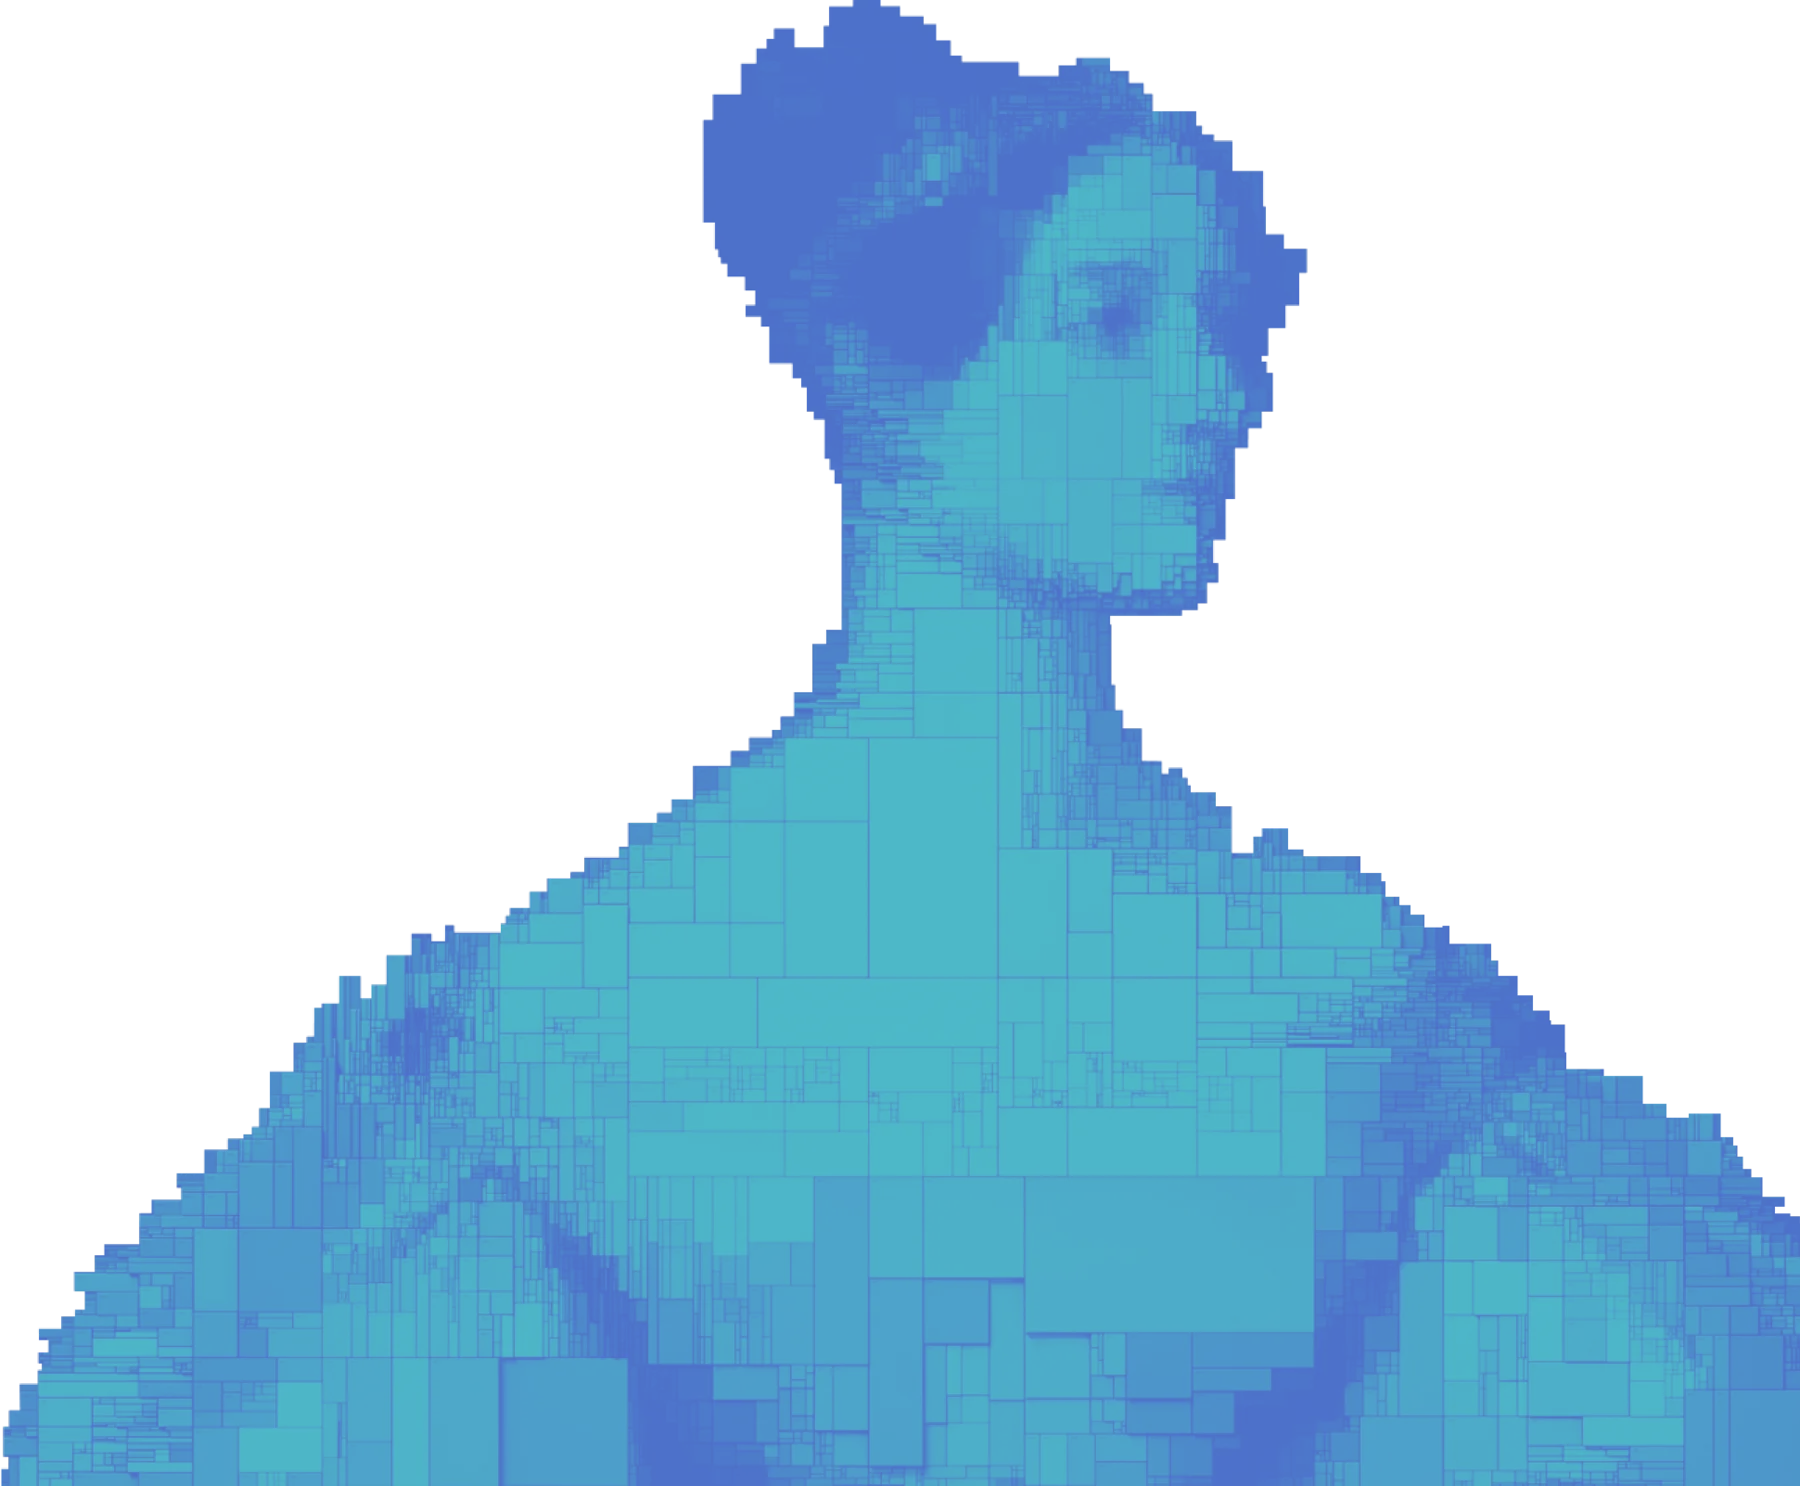
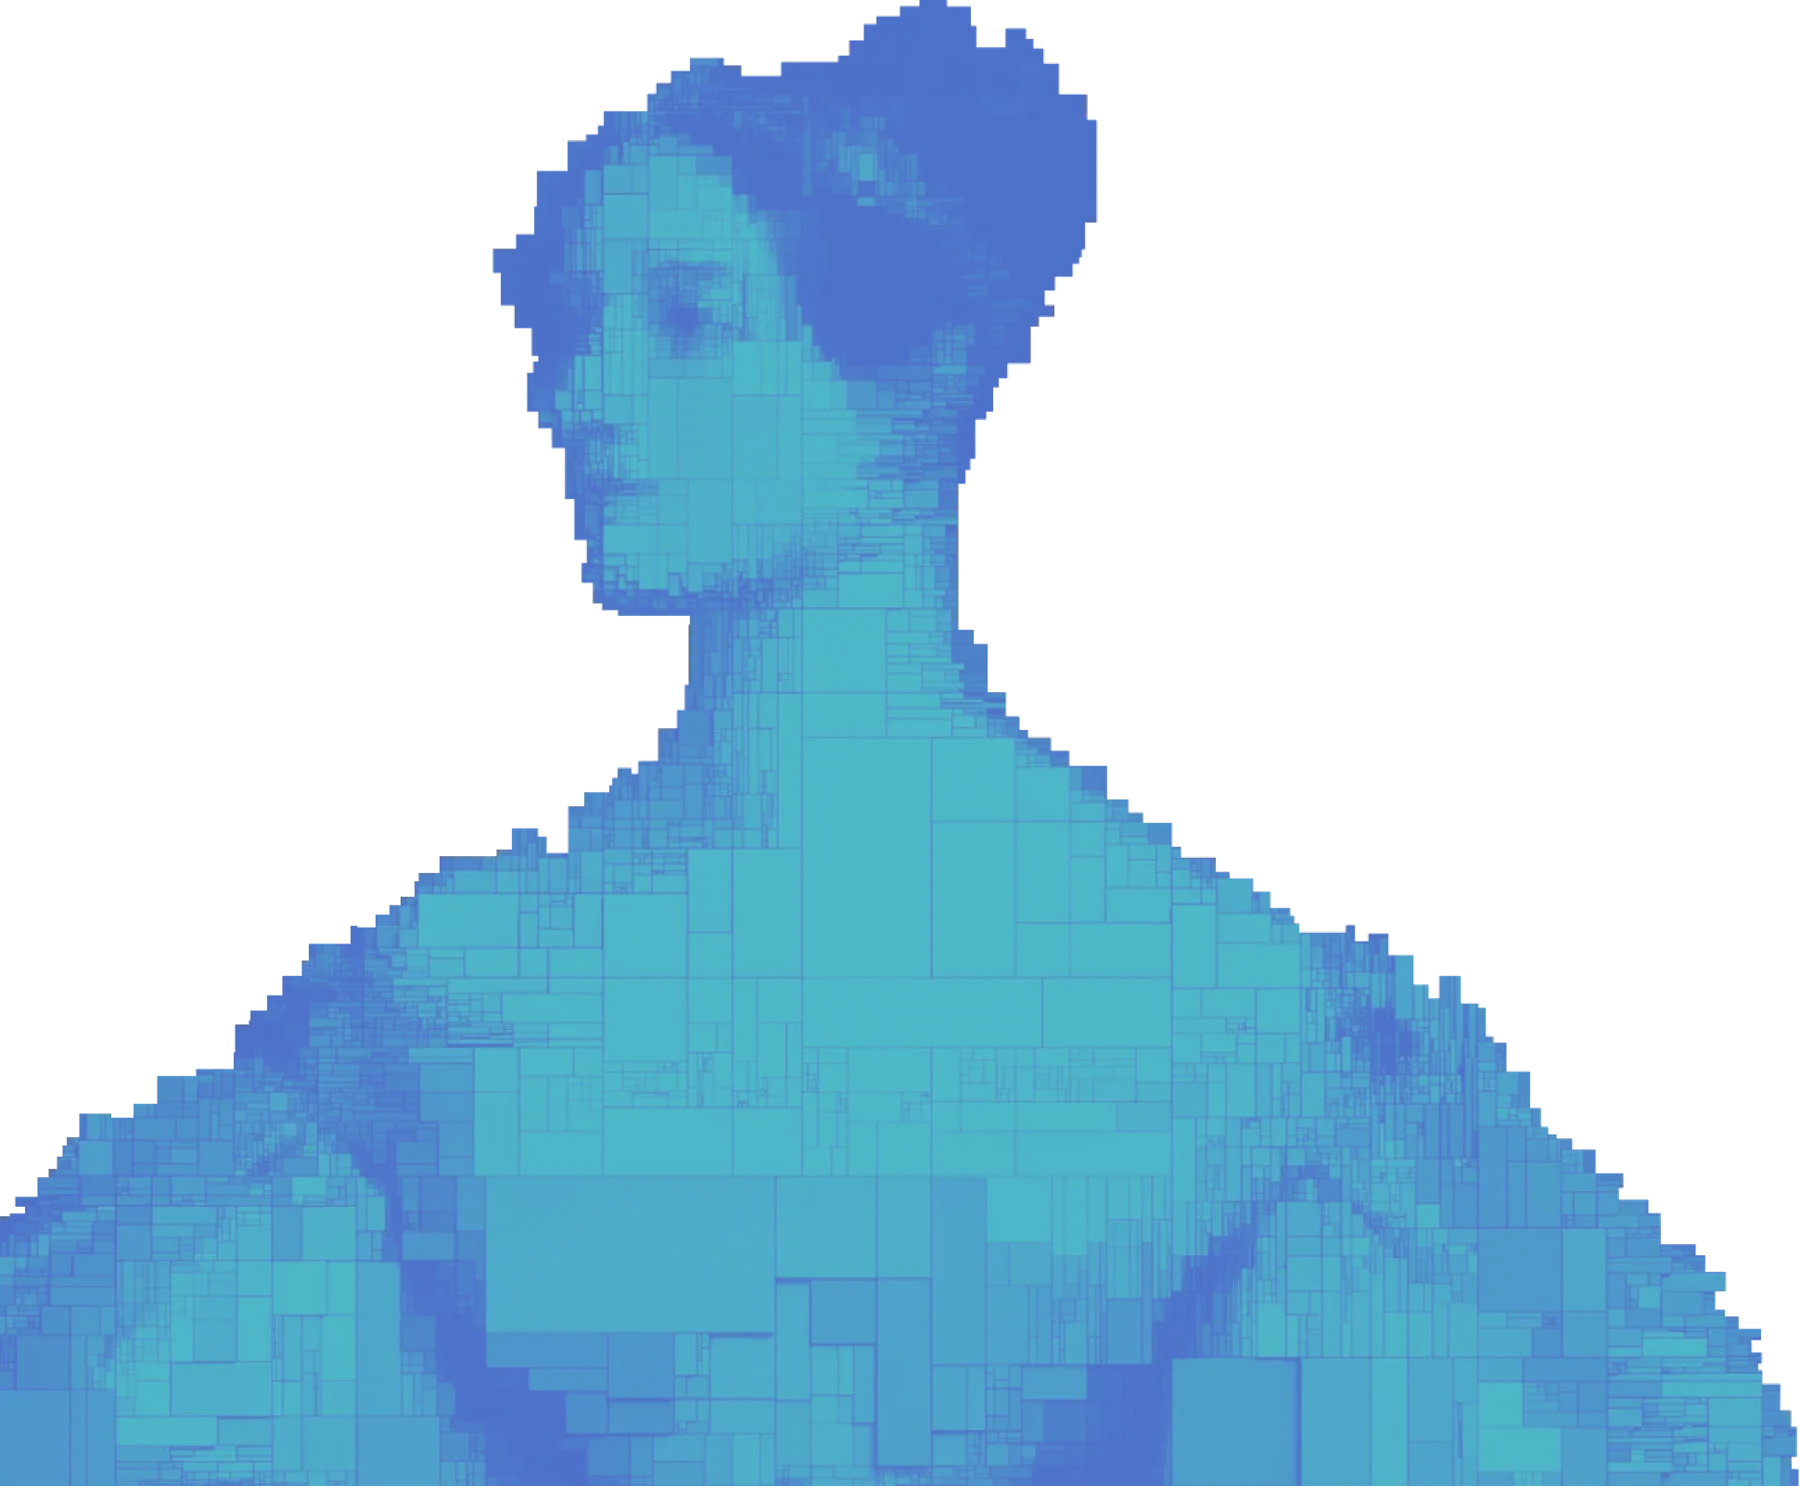
bring hero component closer to the original design

Changed region(s): [[0.0, 0.0, 1.0, 1.0], [0.4667, 0.0929, 0.56, 0.1238], [0.4356, 0.8358, 0.4667, 0.8668]]

diff --git a/src/components/SiteHero/styles.module.css b/src/components/SiteHero/styles.module.css
@@ -8,12 +8,13 @@
 /* various hero banner setups for subsites on cardano.org, light and dark mode images */
 
 .heroBannerZoom {
-  padding: 4rem;
+  padding: 4rem 2rem;;
   text-align: left;
   position: relative;
   overflow: hidden;
   background-size: cover;
   background-position: 50% 75%;
+  height: 410px;
 }
 
 html[data-theme=light] .heroBannerZoom {
@@ -25,13 +26,14 @@ html[data-theme=dark] .heroBannerZoom {
 }
 
 .heroBannerZoomRedWhite {
-  padding: 4rem;
+  padding: 4rem 2rem;;
   text-align: left;
   position: relative;
   overflow: hidden;
   background-size: contain;
   background-repeat: no-repeat;
   background-position: right;
+  height: 410px;
 }
 
 html[data-theme=light] .heroBannerZoomRedWhite {
@@ -43,13 +45,16 @@ html[data-theme=dark] .heroBannerZoomRedWhite {
 }
 
 .heroBannerAda {
-  padding: 4rem 0;
+  padding: 4rem 2rem;
   text-align: left;
   position: relative;
   overflow: hidden;
-  background-size: cover;
-  background-position: 50% 20%;
+  background-size: 50%;  
+  background-position: top right;
+  background-repeat: no-repeat;  
+  height: 410px;
 }
+
 
 html[data-theme=light] .heroBannerAda {
   background-image: url(/img/hero-header-ada.webp);
@@ -62,12 +67,13 @@ html[data-theme=dark] .heroBannerAda {
 }
 
 .heroBannerDots { /* fixme: this is actually a zoom variant */
-  padding: 4rem 0;
+  padding: 4rem 2rem;;
   text-align: left;
   position: relative;
   overflow: hidden;
   background-size: cover;
   background-position: 50% 35%;
+  height: 410px;
 }
 
 html[data-theme=light] .heroBannerDots {
@@ -79,12 +85,13 @@ html[data-theme=dark] .heroBannerDots {
 }
 
 .heroBannerFluid {
-  padding: 4rem 0;
+  padding: 4rem 2rem;;
   text-align: left;
   position: relative;
   overflow: hidden;
   background-size: cover;
   background-position: 50% 50%;
+  height: 410px;
 }
 
 html[data-theme=light] .heroBannerFluid {
@@ -98,12 +105,14 @@ html[data-theme=dark] .heroBannerFluid {
 }
 
 .heroBannerOverlap {
-  padding: 4rem 0;
+  padding: 4rem 2rem;;
   text-align: left;
   position: relative;
   overflow: hidden;
   background-size: cover;
   background-position: 50% 50%;
+  height: 410px;
+   
 }
 
 html[data-theme=light] .heroBannerOverlap {
@@ -125,20 +134,23 @@ html[data-theme=dark] .heroBannerOverlap {
     padding: 4rem;
   }
   .heroBannerZoomRedWhite {
+    padding: 4rem;
     background-size: cover;
     background-position: 50% 50%;
   }
   .heroBannerAda {
-    padding: 2rem;
+    padding: 4rem;
+    background-size: 100%;  
+    background-position: top right;
   }
   .heroBannerDots {
-    padding: 2rem;
+    padding: 4rem;
   }
   .heroBannerFluid {
     padding: 4rem;
   }
   .heroBannerOverlap {
-    padding: 2rem;
+    padding: 4rem;
   }
 }
 
@@ -174,8 +186,8 @@ html[data-theme=dark] .heroBannerOverlap {
     background-repeat: no-repeat;
   }
   .heroBannerAda {
-    background-repeat: no-repeat;
-    background-size: cover;
+    background-size: 30%;  
+    background-position: top center;
   }
   .heroBannerDots {
     background-repeat: no-repeat;

diff --git a/src/pages/what-is-ada.js b/src/pages/what-is-ada.js
@@ -12,7 +12,11 @@ export default function Home() {
       description="Description will go into a meta tag in <head />">
       <SiteHero
         title='What is ada?'
-        description='A new type of currency. A new means of transaction. Direct. Secure. From Anywhere. For Everyone.'
+        description={[
+          'A new type of currency. A new means of transaction.',
+          <br key="line1" />,
+          'Direct. Secure. From Anywhere. For Everyone.',
+          ]}
         bannerType ='ada'
       />
       <main>
